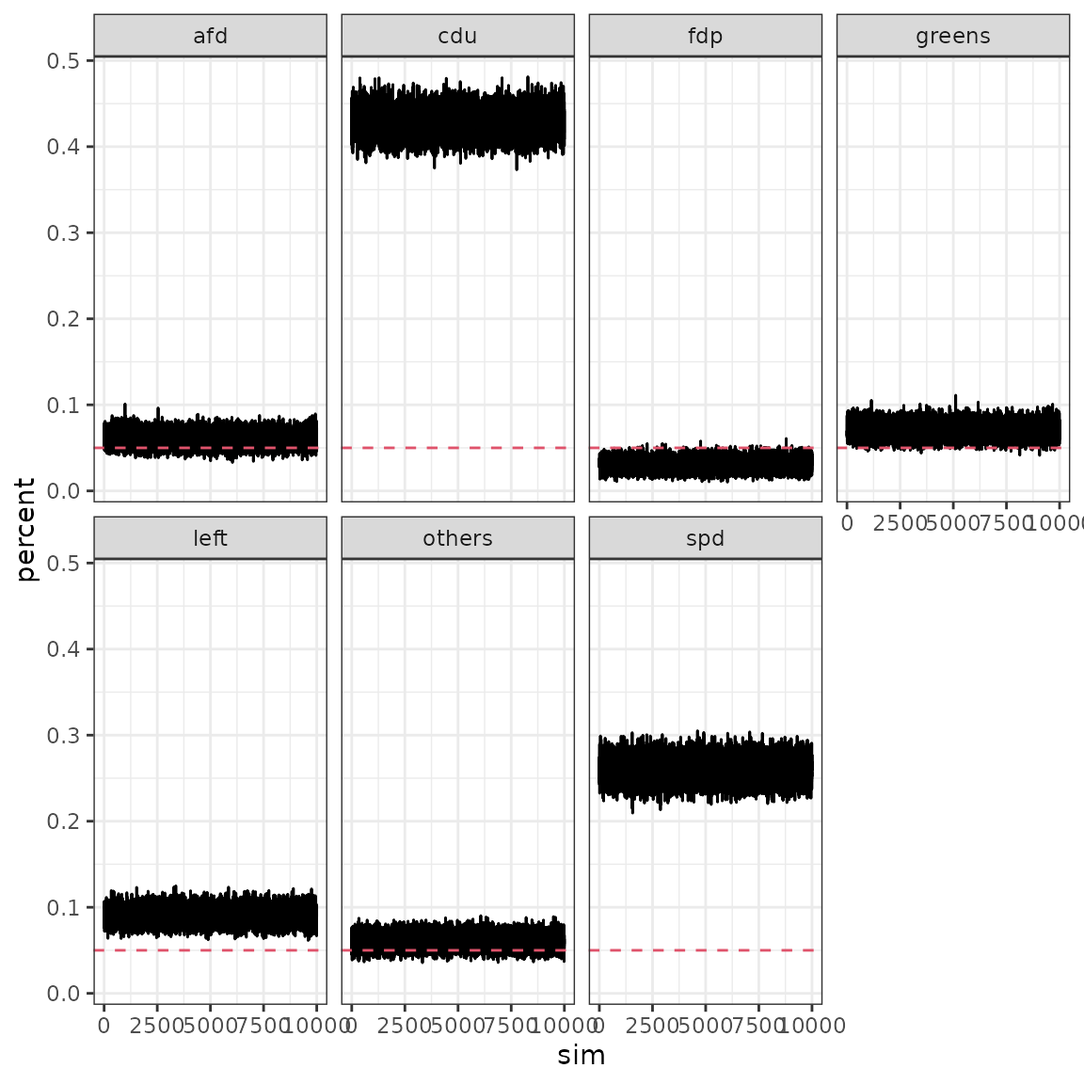
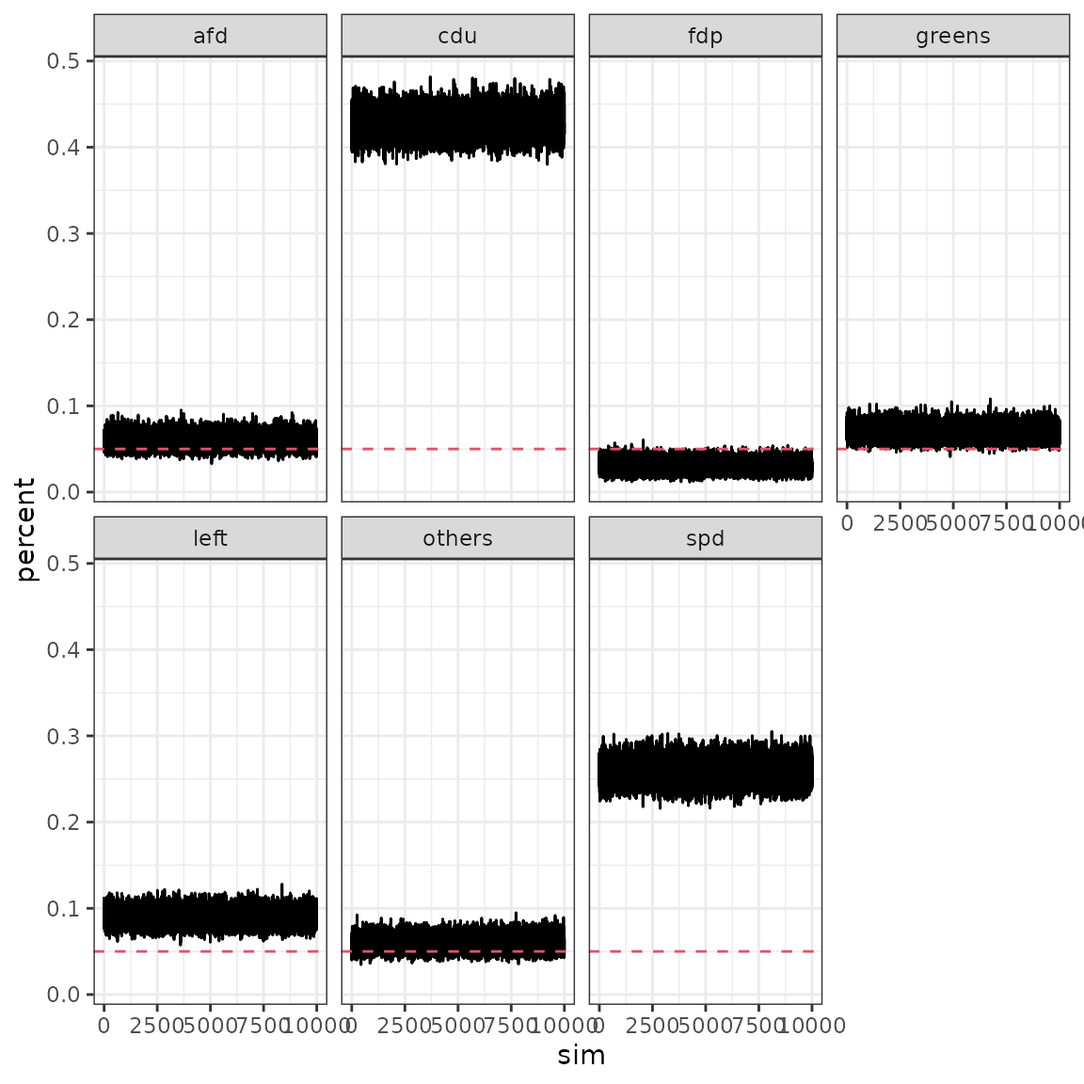
Deploying to gh-pages from @ KOALA-LMU/coalitions@8761fc0c4aca063664afe9be1960df3e53cd40d1 🚀

diff --git a/articles/workflow.html b/articles/workflow.html
@@ -106,7 +106,7 @@
                         <h4 data-toc-skip class="author">Andreas
 Bender</h4>
             
-            <h4 data-toc-skip class="date">2026-09-08</h4>
+            <h4 data-toc-skip class="date">2026-10-02</h4>
       
       <small class="dont-index">Source: <a href="https://github.com/KOALA-LMU/coalitions/blob/master/vignettes/workflow.Rmd" class="external-link"><code>vignettes/workflow.Rmd</code></a></small>
       <div class="hidden name"><code>workflow.Rmd</code></div>
@@ -222,16 +222,16 @@ by drawing from the Dirichlet distribution</p>
 <pre><code><span><span class="co">## <span style="color: #949494;"># A tibble: 10 × 7</span></span></span>
 <span><span class="co">##      cdu   spd greens    fdp   left    afd others</span></span>
 <span><span class="co">##    <span style="color: #949494; font-style: italic;">&lt;dbl&gt;</span> <span style="color: #949494; font-style: italic;">&lt;dbl&gt;</span>  <span style="color: #949494; font-style: italic;">&lt;dbl&gt;</span>  <span style="color: #949494; font-style: italic;">&lt;dbl&gt;</span>  <span style="color: #949494; font-style: italic;">&lt;dbl&gt;</span>  <span style="color: #949494; font-style: italic;">&lt;dbl&gt;</span>  <span style="color: #949494; font-style: italic;">&lt;dbl&gt;</span></span></span>
-<span><span class="co">## <span style="color: #BCBCBC;"> 1</span> 0.414 0.252 0.079<span style="text-decoration: underline;">3</span> 0.032<span style="text-decoration: underline;">3</span> 0.092<span style="text-decoration: underline;">6</span> 0.056<span style="text-decoration: underline;">9</span> 0.073<span style="text-decoration: underline;">5</span></span></span>
-<span><span class="co">## <span style="color: #BCBCBC;"> 2</span> 0.416 0.249 0.095<span style="text-decoration: underline;">4</span> 0.031<span style="text-decoration: underline;">8</span> 0.091<span style="text-decoration: underline;">9</span> 0.044<span style="text-decoration: underline;">8</span> 0.071<span style="text-decoration: underline;">5</span></span></span>
-<span><span class="co">## <span style="color: #BCBCBC;"> 3</span> 0.425 0.265 0.078<span style="text-decoration: underline;">0</span> 0.027<span style="text-decoration: underline;">7</span> 0.086<span style="text-decoration: underline;">9</span> 0.051<span style="text-decoration: underline;">1</span> 0.065<span style="text-decoration: underline;">6</span></span></span>
-<span><span class="co">## <span style="color: #BCBCBC;"> 4</span> 0.428 0.251 0.081<span style="text-decoration: underline;">4</span> 0.035<span style="text-decoration: underline;">5</span> 0.088<span style="text-decoration: underline;">6</span> 0.055<span style="text-decoration: underline;">8</span> 0.059<span style="text-decoration: underline;">7</span></span></span>
-<span><span class="co">## <span style="color: #BCBCBC;"> 5</span> 0.420 0.243 0.092<span style="text-decoration: underline;">8</span> 0.032<span style="text-decoration: underline;">0</span> 0.096<span style="text-decoration: underline;">4</span> 0.047<span style="text-decoration: underline;">6</span> 0.068<span style="text-decoration: underline;">7</span></span></span>
-<span><span class="co">## <span style="color: #BCBCBC;"> 6</span> 0.425 0.247 0.092<span style="text-decoration: underline;">6</span> 0.033<span style="text-decoration: underline;">5</span> 0.087<span style="text-decoration: underline;">2</span> 0.046<span style="text-decoration: underline;">5</span> 0.068<span style="text-decoration: underline;">4</span></span></span>
-<span><span class="co">## <span style="color: #BCBCBC;"> 7</span> 0.420 0.241 0.091<span style="text-decoration: underline;">1</span> 0.025<span style="text-decoration: underline;">5</span> 0.090<span style="text-decoration: underline;">1</span> 0.056<span style="text-decoration: underline;">1</span> 0.076<span style="text-decoration: underline;">1</span></span></span>
-<span><span class="co">## <span style="color: #BCBCBC;"> 8</span> 0.427 0.251 0.084<span style="text-decoration: underline;">6</span> 0.033<span style="text-decoration: underline;">1</span> 0.090<span style="text-decoration: underline;">4</span> 0.049<span style="text-decoration: underline;">9</span> 0.064<span style="text-decoration: underline;">8</span></span></span>
-<span><span class="co">## <span style="color: #BCBCBC;"> 9</span> 0.403 0.255 0.091<span style="text-decoration: underline;">9</span> 0.027<span style="text-decoration: underline;">2</span> 0.082<span style="text-decoration: underline;">8</span> 0.058<span style="text-decoration: underline;">9</span> 0.081<span style="text-decoration: underline;">7</span></span></span>
-<span><span class="co">## <span style="color: #BCBCBC;">10</span> 0.397 0.261 0.096<span style="text-decoration: underline;">4</span> 0.030<span style="text-decoration: underline;">5</span> 0.091<span style="text-decoration: underline;">9</span> 0.057<span style="text-decoration: underline;">8</span> 0.065<span style="text-decoration: underline;">5</span></span></span></code></pre>
+<span><span class="co">## <span style="color: #BCBCBC;"> 1</span> 0.408 0.245 0.094<span style="text-decoration: underline;">0</span> 0.037<span style="text-decoration: underline;">2</span> 0.097<span style="text-decoration: underline;">8</span> 0.056<span style="text-decoration: underline;">8</span> 0.060<span style="text-decoration: underline;">4</span></span></span>
+<span><span class="co">## <span style="color: #BCBCBC;"> 2</span> 0.429 0.265 0.090<span style="text-decoration: underline;">8</span> 0.031<span style="text-decoration: underline;">1</span> 0.083<span style="text-decoration: underline;">4</span> 0.043<span style="text-decoration: underline;">4</span> 0.057<span style="text-decoration: underline;">9</span></span></span>
+<span><span class="co">## <span style="color: #BCBCBC;"> 3</span> 0.410 0.258 0.091<span style="text-decoration: underline;">3</span> 0.032<span style="text-decoration: underline;">0</span> 0.081<span style="text-decoration: underline;">8</span> 0.051<span style="text-decoration: underline;">9</span> 0.074<span style="text-decoration: underline;">8</span></span></span>
+<span><span class="co">## <span style="color: #BCBCBC;"> 4</span> 0.407 0.253 0.096<span style="text-decoration: underline;">0</span> 0.033<span style="text-decoration: underline;">4</span> 0.090<span style="text-decoration: underline;">5</span> 0.047<span style="text-decoration: underline;">7</span> 0.072<span style="text-decoration: underline;">5</span></span></span>
+<span><span class="co">## <span style="color: #BCBCBC;"> 5</span> 0.420 0.242 0.090<span style="text-decoration: underline;">1</span> 0.035<span style="text-decoration: underline;">2</span> 0.087<span style="text-decoration: underline;">2</span> 0.059<span style="text-decoration: underline;">0</span> 0.066<span style="text-decoration: underline;">4</span></span></span>
+<span><span class="co">## <span style="color: #BCBCBC;"> 6</span> 0.404 0.271 0.092<span style="text-decoration: underline;">9</span> 0.029<span style="text-decoration: underline;">8</span> 0.094<span style="text-decoration: underline;">0</span> 0.040<span style="text-decoration: underline;">2</span> 0.068<span style="text-decoration: underline;">8</span></span></span>
+<span><span class="co">## <span style="color: #BCBCBC;"> 7</span> 0.421 0.257 0.092<span style="text-decoration: underline;">5</span> 0.019<span style="text-decoration: underline;">6</span> 0.081<span style="text-decoration: underline;">5</span> 0.044<span style="text-decoration: underline;">5</span> 0.084<span style="text-decoration: underline;">4</span></span></span>
+<span><span class="co">## <span style="color: #BCBCBC;"> 8</span> 0.429 0.243 0.080<span style="text-decoration: underline;">3</span> 0.030<span style="text-decoration: underline;">9</span> 0.100  0.050<span style="text-decoration: underline;">4</span> 0.065<span style="text-decoration: underline;">8</span></span></span>
+<span><span class="co">## <span style="color: #BCBCBC;"> 9</span> 0.418 0.241 0.094<span style="text-decoration: underline;">4</span> 0.033<span style="text-decoration: underline;">8</span> 0.084<span style="text-decoration: underline;">3</span> 0.059<span style="text-decoration: underline;">4</span> 0.068<span style="text-decoration: underline;">8</span></span></span>
+<span><span class="co">## <span style="color: #BCBCBC;">10</span> 0.426 0.231 0.083<span style="text-decoration: underline;">6</span> 0.031<span style="text-decoration: underline;">8</span> 0.099<span style="text-decoration: underline;">5</span> 0.049<span style="text-decoration: underline;">2</span> 0.078<span style="text-decoration: underline;">7</span></span></span></code></pre>
 </div>
 <div class="section level2">
 <h2 id="calculate-seat-distribution">Calculate seat distribution<a class="anchor" aria-label="anchor" href="#calculate-seat-distribution"></a>
@@ -254,31 +254,31 @@ function to the <code>distrib.fun</code> argument of the
 <pre><code><span><span class="co">## <span style="color: #949494;"># A tibble: 6 × 4</span></span></span>
 <span><span class="co">##   date       survey           draws             seats            </span></span>
 <span><span class="co">##   <span style="color: #949494; font-style: italic;">&lt;date&gt;</span>     <span style="color: #949494; font-style: italic;">&lt;list&gt;</span>           <span style="color: #949494; font-style: italic;">&lt;list&gt;</span>            <span style="color: #949494; font-style: italic;">&lt;list&gt;</span>           </span></span>
-<span><span class="co">## <span style="color: #BCBCBC;">1</span> 2013-11-03 <span style="color: #949494;">&lt;tibble [7 × 3]&gt;</span> <span style="color: #949494;">&lt;tibble [10 × 7]&gt;</span> <span style="color: #949494;">&lt;tibble [46 × 3]&gt;</span></span></span>
-<span><span class="co">## <span style="color: #BCBCBC;">2</span> 2013-10-27 <span style="color: #949494;">&lt;tibble [7 × 3]&gt;</span> <span style="color: #949494;">&lt;tibble [10 × 7]&gt;</span> <span style="color: #949494;">&lt;tibble [46 × 3]&gt;</span></span></span>
-<span><span class="co">## <span style="color: #BCBCBC;">3</span> 2013-10-20 <span style="color: #949494;">&lt;tibble [7 × 3]&gt;</span> <span style="color: #949494;">&lt;tibble [10 × 7]&gt;</span> <span style="color: #949494;">&lt;tibble [46 × 3]&gt;</span></span></span>
-<span><span class="co">## <span style="color: #BCBCBC;">4</span> 2013-10-13 <span style="color: #949494;">&lt;tibble [7 × 3]&gt;</span> <span style="color: #949494;">&lt;tibble [10 × 7]&gt;</span> <span style="color: #949494;">&lt;tibble [50 × 3]&gt;</span></span></span>
-<span><span class="co">## <span style="color: #BCBCBC;">5</span> 2013-10-06 <span style="color: #949494;">&lt;tibble [7 × 3]&gt;</span> <span style="color: #949494;">&lt;tibble [10 × 7]&gt;</span> <span style="color: #949494;">&lt;tibble [50 × 3]&gt;</span></span></span>
-<span><span class="co">## <span style="color: #BCBCBC;">6</span> 2013-09-29 <span style="color: #949494;">&lt;tibble [7 × 3]&gt;</span> <span style="color: #949494;">&lt;tibble [10 × 7]&gt;</span> <span style="color: #949494;">&lt;tibble [50 × 3]&gt;</span></span></span></code></pre>
+<span><span class="co">## <span style="color: #BCBCBC;">1</span> 2013-11-03 <span style="color: #949494;">&lt;tibble [7 × 3]&gt;</span> <span style="color: #949494;">&lt;tibble [10 × 7]&gt;</span> <span style="color: #949494;">&lt;tibble [45 × 3]&gt;</span></span></span>
+<span><span class="co">## <span style="color: #BCBCBC;">2</span> 2013-10-27 <span style="color: #949494;">&lt;tibble [7 × 3]&gt;</span> <span style="color: #949494;">&lt;tibble [10 × 7]&gt;</span> <span style="color: #949494;">&lt;tibble [45 × 3]&gt;</span></span></span>
+<span><span class="co">## <span style="color: #BCBCBC;">3</span> 2013-10-20 <span style="color: #949494;">&lt;tibble [7 × 3]&gt;</span> <span style="color: #949494;">&lt;tibble [10 × 7]&gt;</span> <span style="color: #949494;">&lt;tibble [45 × 3]&gt;</span></span></span>
+<span><span class="co">## <span style="color: #BCBCBC;">4</span> 2013-10-13 <span style="color: #949494;">&lt;tibble [7 × 3]&gt;</span> <span style="color: #949494;">&lt;tibble [10 × 7]&gt;</span> <span style="color: #949494;">&lt;tibble [49 × 3]&gt;</span></span></span>
+<span><span class="co">## <span style="color: #BCBCBC;">5</span> 2013-10-06 <span style="color: #949494;">&lt;tibble [7 × 3]&gt;</span> <span style="color: #949494;">&lt;tibble [10 × 7]&gt;</span> <span style="color: #949494;">&lt;tibble [49 × 3]&gt;</span></span></span>
+<span><span class="co">## <span style="color: #BCBCBC;">6</span> 2013-09-29 <span style="color: #949494;">&lt;tibble [7 × 3]&gt;</span> <span style="color: #949494;">&lt;tibble [10 × 7]&gt;</span> <span style="color: #949494;">&lt;tibble [49 × 3]&gt;</span></span></span></code></pre>
 <div class="sourceCode" id="cb14"><pre class="downlit sourceCode r">
 <code class="sourceCode R"><span><span class="co">## sim column indicates simulated elections (rows in draws column)</span></span>
 <span><span class="va">elong</span> <span class="op"><a href="../reference/pipe.html">%&gt;%</a></span> <span class="fu"><a href="https://dplyr.tidyverse.org/reference/slice.html" class="external-link">slice</a></span><span class="op">(</span><span class="fl">1</span><span class="op">)</span> <span class="op"><a href="../reference/pipe.html">%&gt;%</a></span> <span class="fu"><a href="https://dplyr.tidyverse.org/reference/select.html" class="external-link">select</a></span><span class="op">(</span><span class="va">seats</span><span class="op">)</span> <span class="op"><a href="../reference/pipe.html">%&gt;%</a></span> <span class="fu"><a href="https://tidyr.tidyverse.org/reference/unnest.html" class="external-link">unnest</a></span><span class="op">(</span><span class="st">"seats"</span><span class="op">)</span></span></code></pre></div>
-<pre><code><span><span class="co">## <span style="color: #949494;"># A tibble: 46 × 3</span></span></span>
+<pre><code><span><span class="co">## <span style="color: #949494;"># A tibble: 45 × 3</span></span></span>
 <span><span class="co">##      sim party  seats</span></span>
 <span><span class="co">##    <span style="color: #949494; font-style: italic;">&lt;int&gt;</span> <span style="color: #949494; font-style: italic;">&lt;chr&gt;</span>  <span style="color: #949494; font-style: italic;">&lt;int&gt;</span></span></span>
 <span><span class="co">## <span style="color: #BCBCBC;"> 1</span>     1 cdu       38</span></span>
-<span><span class="co">## <span style="color: #BCBCBC;"> 2</span>     1 spd      277</span></span>
-<span><span class="co">## <span style="color: #BCBCBC;"> 3</span>     1 greens    53</span></span>
-<span><span class="co">## <span style="color: #BCBCBC;"> 4</span>     1 left      62</span></span>
-<span><span class="co">## <span style="color: #BCBCBC;"> 5</span>     1 afd      168</span></span>
-<span><span class="co">## <span style="color: #BCBCBC;"> 6</span>     2 cdu      292</span></span>
-<span><span class="co">## <span style="color: #BCBCBC;"> 7</span>     2 spd       67</span></span>
-<span><span class="co">## <span style="color: #BCBCBC;"> 8</span>     2 greens    64</span></span>
-<span><span class="co">## <span style="color: #BCBCBC;"> 9</span>     2 left     175</span></span>
-<span><span class="co">## <span style="color: #BCBCBC;">10</span>     3 cdu       34</span></span>
-<span><span class="co">## <span style="color: #949494;"># ℹ 36 more rows</span></span></span></code></pre>
+<span><span class="co">## <span style="color: #BCBCBC;"> 2</span>     1 spd      270</span></span>
+<span><span class="co">## <span style="color: #BCBCBC;"> 3</span>     1 greens    62</span></span>
+<span><span class="co">## <span style="color: #BCBCBC;"> 4</span>     1 left      65</span></span>
+<span><span class="co">## <span style="color: #BCBCBC;"> 5</span>     1 afd      163</span></span>
+<span><span class="co">## <span style="color: #BCBCBC;"> 6</span>     2 cdu      295</span></span>
+<span><span class="co">## <span style="color: #BCBCBC;"> 7</span>     2 spd       63</span></span>
+<span><span class="co">## <span style="color: #BCBCBC;"> 8</span>     2 greens    58</span></span>
+<span><span class="co">## <span style="color: #BCBCBC;"> 9</span>     2 left     182</span></span>
+<span><span class="co">## <span style="color: #BCBCBC;">10</span>     3 cdu       35</span></span>
+<span><span class="co">## <span style="color: #949494;"># ℹ 35 more rows</span></span></span></code></pre>
 <p>In the above example, given the latest survey, CDU/CSU would have 38
-seats in the first simulation, 292 seats in the second simulation,
+seats in the first simulation, 295 seats in the second simulation,
 etc.</p>
 </div>
 <div class="section level2">
@@ -308,12 +308,12 @@ could potentially obtain absolute majority on their own):</p>
 <pre><code><span><span class="co">## <span style="color: #949494;"># A tibble: 6 × 4</span></span></span>
 <span><span class="co">##   date       draws             seats             majorities       </span></span>
 <span><span class="co">##   <span style="color: #949494; font-style: italic;">&lt;date&gt;</span>     <span style="color: #949494; font-style: italic;">&lt;list&gt;</span>            <span style="color: #949494; font-style: italic;">&lt;list&gt;</span>            <span style="color: #949494; font-style: italic;">&lt;list&gt;</span>           </span></span>
-<span><span class="co">## <span style="color: #BCBCBC;">1</span> 2013-11-03 <span style="color: #949494;">&lt;tibble [10 × 7]&gt;</span> <span style="color: #949494;">&lt;tibble [46 × 3]&gt;</span> <span style="color: #949494;">&lt;tibble [10 × 9]&gt;</span></span></span>
-<span><span class="co">## <span style="color: #BCBCBC;">2</span> 2013-10-27 <span style="color: #949494;">&lt;tibble [10 × 7]&gt;</span> <span style="color: #949494;">&lt;tibble [46 × 3]&gt;</span> <span style="color: #949494;">&lt;tibble [10 × 9]&gt;</span></span></span>
-<span><span class="co">## <span style="color: #BCBCBC;">3</span> 2013-10-20 <span style="color: #949494;">&lt;tibble [10 × 7]&gt;</span> <span style="color: #949494;">&lt;tibble [46 × 3]&gt;</span> <span style="color: #949494;">&lt;tibble [10 × 9]&gt;</span></span></span>
-<span><span class="co">## <span style="color: #BCBCBC;">4</span> 2013-10-13 <span style="color: #949494;">&lt;tibble [10 × 7]&gt;</span> <span style="color: #949494;">&lt;tibble [50 × 3]&gt;</span> <span style="color: #949494;">&lt;tibble [10 × 9]&gt;</span></span></span>
-<span><span class="co">## <span style="color: #BCBCBC;">5</span> 2013-10-06 <span style="color: #949494;">&lt;tibble [10 × 7]&gt;</span> <span style="color: #949494;">&lt;tibble [50 × 3]&gt;</span> <span style="color: #949494;">&lt;tibble [10 × 9]&gt;</span></span></span>
-<span><span class="co">## <span style="color: #BCBCBC;">6</span> 2013-09-29 <span style="color: #949494;">&lt;tibble [10 × 7]&gt;</span> <span style="color: #949494;">&lt;tibble [50 × 3]&gt;</span> <span style="color: #949494;">&lt;tibble [10 × 9]&gt;</span></span></span></code></pre>
+<span><span class="co">## <span style="color: #BCBCBC;">1</span> 2013-11-03 <span style="color: #949494;">&lt;tibble [10 × 7]&gt;</span> <span style="color: #949494;">&lt;tibble [45 × 3]&gt;</span> <span style="color: #949494;">&lt;tibble [10 × 9]&gt;</span></span></span>
+<span><span class="co">## <span style="color: #BCBCBC;">2</span> 2013-10-27 <span style="color: #949494;">&lt;tibble [10 × 7]&gt;</span> <span style="color: #949494;">&lt;tibble [45 × 3]&gt;</span> <span style="color: #949494;">&lt;tibble [10 × 9]&gt;</span></span></span>
+<span><span class="co">## <span style="color: #BCBCBC;">3</span> 2013-10-20 <span style="color: #949494;">&lt;tibble [10 × 7]&gt;</span> <span style="color: #949494;">&lt;tibble [45 × 3]&gt;</span> <span style="color: #949494;">&lt;tibble [10 × 9]&gt;</span></span></span>
+<span><span class="co">## <span style="color: #BCBCBC;">4</span> 2013-10-13 <span style="color: #949494;">&lt;tibble [10 × 7]&gt;</span> <span style="color: #949494;">&lt;tibble [49 × 3]&gt;</span> <span style="color: #949494;">&lt;tibble [10 × 9]&gt;</span></span></span>
+<span><span class="co">## <span style="color: #BCBCBC;">5</span> 2013-10-06 <span style="color: #949494;">&lt;tibble [10 × 7]&gt;</span> <span style="color: #949494;">&lt;tibble [49 × 3]&gt;</span> <span style="color: #949494;">&lt;tibble [10 × 9]&gt;</span></span></span>
+<span><span class="co">## <span style="color: #BCBCBC;">6</span> 2013-09-29 <span style="color: #949494;">&lt;tibble [10 × 7]&gt;</span> <span style="color: #949494;">&lt;tibble [49 × 3]&gt;</span> <span style="color: #949494;">&lt;tibble [10 × 9]&gt;</span></span></span></code></pre>
 <div class="sourceCode" id="cb18"><pre class="downlit sourceCode r">
 <code class="sourceCode R"><span><span class="co"># The majorities table for each date will have 1 row per simulation</span></span>
 <span><span class="co"># and one column per coalition</span></span>
@@ -324,13 +324,13 @@ could potentially obtain absolute majority on their own):</p>
 <span><span class="co">## <span style="color: #BCBCBC;"> 1</span> FALSE FALSE   FALSE      FALSE          FALSE TRUE     TRUE      </span></span>
 <span><span class="co">## <span style="color: #BCBCBC;"> 2</span> FALSE FALSE   TRUE       TRUE           FALSE FALSE    FALSE     </span></span>
 <span><span class="co">## <span style="color: #BCBCBC;"> 3</span> FALSE FALSE   FALSE      FALSE          FALSE TRUE     TRUE      </span></span>
-<span><span class="co">## <span style="color: #BCBCBC;"> 4</span> FALSE FALSE   FALSE      FALSE          FALSE TRUE     TRUE      </span></span>
-<span><span class="co">## <span style="color: #BCBCBC;"> 5</span> FALSE FALSE   TRUE       TRUE           FALSE FALSE    FALSE     </span></span>
+<span><span class="co">## <span style="color: #BCBCBC;"> 4</span> FALSE FALSE   TRUE       TRUE           FALSE FALSE    FALSE     </span></span>
+<span><span class="co">## <span style="color: #BCBCBC;"> 5</span> FALSE FALSE   FALSE      FALSE          FALSE TRUE     TRUE      </span></span>
 <span><span class="co">## <span style="color: #BCBCBC;"> 6</span> FALSE FALSE   TRUE       TRUE           FALSE FALSE    FALSE     </span></span>
-<span><span class="co">## <span style="color: #BCBCBC;"> 7</span> FALSE FALSE   FALSE      FALSE          FALSE TRUE     TRUE      </span></span>
-<span><span class="co">## <span style="color: #BCBCBC;"> 8</span> TRUE  TRUE    TRUE       TRUE           FALSE FALSE    FALSE     </span></span>
+<span><span class="co">## <span style="color: #BCBCBC;"> 7</span> FALSE FALSE   TRUE       TRUE           FALSE FALSE    FALSE     </span></span>
+<span><span class="co">## <span style="color: #BCBCBC;"> 8</span> FALSE FALSE   FALSE      FALSE          FALSE TRUE     TRUE      </span></span>
 <span><span class="co">## <span style="color: #BCBCBC;"> 9</span> FALSE FALSE   FALSE      FALSE          FALSE TRUE     TRUE      </span></span>
-<span><span class="co">## <span style="color: #BCBCBC;">10</span> FALSE FALSE   FALSE      FALSE          FALSE TRUE     TRUE      </span></span>
+<span><span class="co">## <span style="color: #BCBCBC;">10</span> TRUE  TRUE    TRUE       TRUE           FALSE FALSE    FALSE     </span></span>
 <span><span class="co">## <span style="color: #949494;"># ℹ 2 more variables: greens_left_spd &lt;lgl&gt;, cdu_spd &lt;lgl&gt;</span></span></span></code></pre>
 </div>
 <div class="section level2">
@@ -363,12 +363,12 @@ simulation with majority for “cdu/csu” and “fdp”, see example in
 <span><span class="co">##   <span style="color: #949494; font-style: italic;">&lt;chr&gt;</span>                 <span style="color: #949494; font-style: italic;">&lt;dbl&gt;</span></span></span>
 <span><span class="co">## <span style="color: #BCBCBC;">1</span> cdu                      10</span></span>
 <span><span class="co">## <span style="color: #BCBCBC;">2</span> cdu_fdp                   0</span></span>
-<span><span class="co">## <span style="color: #BCBCBC;">3</span> cdu_greens               30</span></span>
+<span><span class="co">## <span style="color: #BCBCBC;">3</span> cdu_greens               40</span></span>
 <span><span class="co">## <span style="color: #BCBCBC;">4</span> cdu_fdp_greens            0</span></span>
 <span><span class="co">## <span style="color: #BCBCBC;">5</span> spd                       0</span></span>
-<span><span class="co">## <span style="color: #BCBCBC;">6</span> left_spd                 60</span></span>
-<span><span class="co">## <span style="color: #BCBCBC;">7</span> greens_spd               60</span></span>
-<span><span class="co">## <span style="color: #BCBCBC;">8</span> greens_left_spd          20</span></span>
+<span><span class="co">## <span style="color: #BCBCBC;">6</span> left_spd                 50</span></span>
+<span><span class="co">## <span style="color: #BCBCBC;">7</span> greens_spd               50</span></span>
+<span><span class="co">## <span style="color: #BCBCBC;">8</span> greens_left_spd          40</span></span>
 <span><span class="co">## <span style="color: #BCBCBC;">9</span> cdu_spd                  90</span></span></code></pre>
 </div>
 <div class="section level2">
@@ -381,15 +381,15 @@ simulation with majority for “cdu/csu” and “fdp”, see example in
 <pre><code><span><span class="co">## <span style="color: #949494;"># A tibble: 36 × 3</span></span></span>
 <span><span class="co">##    date       coalition       probability</span></span>
 <span><span class="co">##    <span style="color: #949494; font-style: italic;">&lt;date&gt;</span>     <span style="color: #949494; font-style: italic;">&lt;chr&gt;</span>                 <span style="color: #949494; font-style: italic;">&lt;dbl&gt;</span></span></span>
-<span><span class="co">## <span style="color: #BCBCBC;"> 1</span> 2013-11-03 cdu                       0</span></span>
+<span><span class="co">## <span style="color: #BCBCBC;"> 1</span> 2013-11-03 cdu                      10</span></span>
 <span><span class="co">## <span style="color: #BCBCBC;"> 2</span> 2013-11-03 cdu_fdp                   0</span></span>
-<span><span class="co">## <span style="color: #BCBCBC;"> 3</span> 2013-11-03 cdu_fdp_greens           60</span></span>
+<span><span class="co">## <span style="color: #BCBCBC;"> 3</span> 2013-11-03 cdu_fdp_greens           20</span></span>
 <span><span class="co">## <span style="color: #BCBCBC;"> 4</span> 2013-11-03 spd                       0</span></span>
-<span><span class="co">## <span style="color: #BCBCBC;"> 5</span> 2013-11-03 left_spd                 40</span></span>
-<span><span class="co">## <span style="color: #BCBCBC;"> 6</span> 2013-11-03 greens_left_spd          60</span></span>
-<span><span class="co">## <span style="color: #BCBCBC;"> 7</span> 2013-10-27 cdu                       0</span></span>
+<span><span class="co">## <span style="color: #BCBCBC;"> 5</span> 2013-11-03 left_spd                 70</span></span>
+<span><span class="co">## <span style="color: #BCBCBC;"> 6</span> 2013-11-03 greens_left_spd          20</span></span>
+<span><span class="co">## <span style="color: #BCBCBC;"> 7</span> 2013-10-27 cdu                      10</span></span>
 <span><span class="co">## <span style="color: #BCBCBC;"> 8</span> 2013-10-27 cdu_fdp                   0</span></span>
-<span><span class="co">## <span style="color: #BCBCBC;"> 9</span> 2013-10-27 cdu_fdp_greens           60</span></span>
+<span><span class="co">## <span style="color: #BCBCBC;"> 9</span> 2013-10-27 cdu_fdp_greens           20</span></span>
 <span><span class="co">## <span style="color: #BCBCBC;">10</span> 2013-10-27 spd                       0</span></span>
 <span><span class="co">## <span style="color: #949494;"># ℹ 26 more rows</span></span></span></code></pre>
 </div>

diff --git a/reference/scrape.html b/reference/scrape.html
@@ -149,11 +149,11 @@ respondents, and one column per party containing the percentage of votes.</p>
 <span class="r-out co"><span class="r-pr">#&gt;</span> <span style="color: #949494;"># A tibble: 5 × 12</span></span>
 <span class="r-out co"><span class="r-pr">#&gt;</span>   pollster date       start      end          cdu   spd greens   fdp  left   afd</span>
 <span class="r-out co"><span class="r-pr">#&gt;</span>   <span style="color: #949494; font-style: italic;">&lt;chr&gt;</span>    <span style="color: #949494; font-style: italic;">&lt;date&gt;</span>     <span style="color: #949494; font-style: italic;">&lt;date&gt;</span>     <span style="color: #949494; font-style: italic;">&lt;date&gt;</span>     <span style="color: #949494; font-style: italic;">&lt;dbl&gt;</span> <span style="color: #949494; font-style: italic;">&lt;dbl&gt;</span>  <span style="color: #949494; font-style: italic;">&lt;dbl&gt;</span> <span style="color: #949494; font-style: italic;">&lt;dbl&gt;</span> <span style="color: #949494; font-style: italic;">&lt;dbl&gt;</span> <span style="color: #949494; font-style: italic;">&lt;dbl&gt;</span></span>
-<span class="r-out co"><span class="r-pr">#&gt;</span> <span style="color: #BCBCBC;">1</span> insa     2026-04-22 2026-04-22 2026-04-22    25    25     12     4     7    20</span>
-<span class="r-out co"><span class="r-pr">#&gt;</span> <span style="color: #BCBCBC;">2</span> allensb… 2026-02-25 2026-02-25 2026-02-25    27    26     10     3     7    21</span>
-<span class="r-out co"><span class="r-pr">#&gt;</span> <span style="color: #BCBCBC;">3</span> infrate… 2025-11-19 2025-11-19 2025-11-19    26    26     12     3     6    20</span>
-<span class="r-out co"><span class="r-pr">#&gt;</span> <span style="color: #BCBCBC;">4</span> insa     2025-02-19 2025-02-19 2025-02-19    30    25     10     5     5    16</span>
-<span class="r-out co"><span class="r-pr">#&gt;</span> <span style="color: #BCBCBC;">5</span> allensb… 2024-12-05 2024-12-05 2024-12-05    33    27     10     4    <span style="color: #BB0000;">NA</span>    16</span>
+<span class="r-out co"><span class="r-pr">#&gt;</span> <span style="color: #BCBCBC;">1</span> insa     2026-09-11 2026-09-11 2026-09-11    22    26     15     5     6    21</span>
+<span class="r-out co"><span class="r-pr">#&gt;</span> <span style="color: #BCBCBC;">2</span> insa     2026-04-22 2026-04-22 2026-04-22    25    25     12     4     7    20</span>
+<span class="r-out co"><span class="r-pr">#&gt;</span> <span style="color: #BCBCBC;">3</span> allensb… 2026-02-25 2026-02-25 2026-02-25    27    26     10     3     7    21</span>
+<span class="r-out co"><span class="r-pr">#&gt;</span> <span style="color: #BCBCBC;">4</span> infrate… 2025-11-19 2025-11-19 2025-11-19    26    26     12     3     6    20</span>
+<span class="r-out co"><span class="r-pr">#&gt;</span> <span style="color: #BCBCBC;">5</span> insa     2025-02-19 2025-02-19 2025-02-19    30    25     10     5     5    16</span>
 <span class="r-out co"><span class="r-pr">#&gt;</span> <span style="color: #949494;"># ℹ 2 more variables: others &lt;dbl&gt;, respondents &lt;dbl&gt;</span></span>
 <span class="r-in"><span><span class="co"># Hessen</span></span></span>
 <span class="r-in"><span><span class="fu">scrape_ltw</span><span class="op">(</span><span class="st">"https://www.wahlrecht.de/umfragen/landtage/hessen.htm"</span>, ind_row_remove<span class="op">=</span><span class="op">-</span><span class="fu"><a href="https://rdrr.io/r/base/c.html" class="external-link">c</a></span><span class="op">(</span><span class="fl">1</span><span class="op">)</span><span class="op">)</span> <span class="op"><a href="pipe.html">%&gt;%</a></span></span></span>

diff --git a/reference/get_surveys.html b/reference/get_surveys.html
@@ -155,13 +155,13 @@ columns:</p><dl><dt>pollster</dt>
 <span class="r-out co"><span class="r-pr">#&gt;</span> <span style="color: #949494;"># A tibble: 7 × 2</span></span>
 <span class="r-out co"><span class="r-pr">#&gt;</span>   pollster   surveys           </span>
 <span class="r-out co"><span class="r-pr">#&gt;</span>   <span style="color: #949494; font-style: italic;">&lt;chr&gt;</span>      <span style="color: #949494; font-style: italic;">&lt;list&gt;</span>            </span>
-<span class="r-out co"><span class="r-pr">#&gt;</span> <span style="color: #BCBCBC;">1</span> allensbach <span style="color: #949494;">&lt;tibble [111 × 5]&gt;</span></span>
-<span class="r-out co"><span class="r-pr">#&gt;</span> <span style="color: #BCBCBC;">2</span> emnid      <span style="color: #949494;">&lt;tibble [551 × 5]&gt;</span></span>
-<span class="r-out co"><span class="r-pr">#&gt;</span> <span style="color: #BCBCBC;">3</span> forsa      <span style="color: #949494;">&lt;tibble [667 × 5]&gt;</span></span>
-<span class="r-out co"><span class="r-pr">#&gt;</span> <span style="color: #BCBCBC;">4</span> fgw        <span style="color: #949494;">&lt;tibble [172 × 5]&gt;</span></span>
-<span class="r-out co"><span class="r-pr">#&gt;</span> <span style="color: #BCBCBC;">5</span> gms        <span style="color: #949494;">&lt;tibble [72 × 5]&gt;</span> </span>
-<span class="r-out co"><span class="r-pr">#&gt;</span> <span style="color: #BCBCBC;">6</span> infratest  <span style="color: #949494;">&lt;tibble [285 × 5]&gt;</span></span>
-<span class="r-out co"><span class="r-pr">#&gt;</span> <span style="color: #BCBCBC;">7</span> insa       <span style="color: #949494;">&lt;tibble [512 × 5]&gt;</span></span>
+<span class="r-out co"><span class="r-pr">#&gt;</span> <span style="color: #BCBCBC;">1</span> allensbach <span style="color: #949494;">&lt;tibble [112 × 5]&gt;</span></span>
+<span class="r-out co"><span class="r-pr">#&gt;</span> <span style="color: #BCBCBC;">2</span> emnid      <span style="color: #949494;">&lt;tibble [552 × 5]&gt;</span></span>
+<span class="r-out co"><span class="r-pr">#&gt;</span> <span style="color: #BCBCBC;">3</span> forsa      <span style="color: #949494;">&lt;tibble [670 × 5]&gt;</span></span>
+<span class="r-out co"><span class="r-pr">#&gt;</span> <span style="color: #BCBCBC;">4</span> fgw        <span style="color: #949494;">&lt;tibble [173 × 5]&gt;</span></span>
+<span class="r-out co"><span class="r-pr">#&gt;</span> <span style="color: #BCBCBC;">5</span> gms        <span style="color: #949494;">&lt;tibble [73 × 5]&gt;</span> </span>
+<span class="r-out co"><span class="r-pr">#&gt;</span> <span style="color: #BCBCBC;">6</span> infratest  <span style="color: #949494;">&lt;tibble [286 × 5]&gt;</span></span>
+<span class="r-out co"><span class="r-pr">#&gt;</span> <span style="color: #BCBCBC;">7</span> insa       <span style="color: #949494;">&lt;tibble [163 × 5]&gt;</span></span>
 <span class="r-in"><span><span class="co"># }</span></span></span>
 <span class="r-in"><span><span class="kw"><a href="https://rdrr.io/r/base/library.html" class="external-link">library</a></span><span class="op">(</span><span class="va"><a href="https://koala-lmu.github.io/coalitions/">coalitions</a></span><span class="op">)</span></span></span>
 <span class="r-in"><span><span class="co">### Scrape the newest poll for the German federal election</span></span></span>

diff --git a/reference/get_seats.html b/reference/get_seats.html
@@ -152,16 +152,16 @@ explicitly are subsumed.</p></dd>
 <span class="r-out co"><span class="r-pr">#&gt;</span> <span style="color: #949494;"># A tibble: 600 × 3</span></span>
 <span class="r-out co"><span class="r-pr">#&gt;</span>      sim party  seats</span>
 <span class="r-out co"><span class="r-pr">#&gt;</span>    <span style="color: #949494; font-style: italic;">&lt;int&gt;</span> <span style="color: #949494; font-style: italic;">&lt;chr&gt;</span>  <span style="color: #949494; font-style: italic;">&lt;int&gt;</span></span>
-<span class="r-out co"><span class="r-pr">#&gt;</span> <span style="color: #BCBCBC;"> 1</span>     1 cdu       56</span>
-<span class="r-out co"><span class="r-pr">#&gt;</span> <span style="color: #BCBCBC;"> 2</span>     1 spd      249</span>
-<span class="r-out co"><span class="r-pr">#&gt;</span> <span style="color: #BCBCBC;"> 3</span>     1 greens    48</span>
-<span class="r-out co"><span class="r-pr">#&gt;</span> <span style="color: #BCBCBC;"> 4</span>     1 fdp       50</span>
-<span class="r-out co"><span class="r-pr">#&gt;</span> <span style="color: #BCBCBC;"> 5</span>     1 left      55</span>
-<span class="r-out co"><span class="r-pr">#&gt;</span> <span style="color: #BCBCBC;"> 6</span>     1 afd      140</span>
-<span class="r-out co"><span class="r-pr">#&gt;</span> <span style="color: #BCBCBC;"> 7</span>     2 cdu       47</span>
-<span class="r-out co"><span class="r-pr">#&gt;</span> <span style="color: #BCBCBC;"> 8</span>     2 spd      241</span>
-<span class="r-out co"><span class="r-pr">#&gt;</span> <span style="color: #BCBCBC;"> 9</span>     2 greens    56</span>
-<span class="r-out co"><span class="r-pr">#&gt;</span> <span style="color: #BCBCBC;">10</span>     2 fdp       45</span>
+<span class="r-out co"><span class="r-pr">#&gt;</span> <span style="color: #BCBCBC;"> 1</span>     1 cdu       54</span>
+<span class="r-out co"><span class="r-pr">#&gt;</span> <span style="color: #BCBCBC;"> 2</span>     1 spd      232</span>
+<span class="r-out co"><span class="r-pr">#&gt;</span> <span style="color: #BCBCBC;"> 3</span>     1 greens    53</span>
+<span class="r-out co"><span class="r-pr">#&gt;</span> <span style="color: #BCBCBC;"> 4</span>     1 fdp       44</span>
+<span class="r-out co"><span class="r-pr">#&gt;</span> <span style="color: #BCBCBC;"> 5</span>     1 left      63</span>
+<span class="r-out co"><span class="r-pr">#&gt;</span> <span style="color: #BCBCBC;"> 6</span>     1 afd      152</span>
+<span class="r-out co"><span class="r-pr">#&gt;</span> <span style="color: #BCBCBC;"> 7</span>     2 cdu       53</span>
+<span class="r-out co"><span class="r-pr">#&gt;</span> <span style="color: #BCBCBC;"> 8</span>     2 spd      227</span>
+<span class="r-out co"><span class="r-pr">#&gt;</span> <span style="color: #BCBCBC;"> 9</span>     2 greens    59</span>
+<span class="r-out co"><span class="r-pr">#&gt;</span> <span style="color: #BCBCBC;">10</span>     2 fdp       50</span>
 <span class="r-out co"><span class="r-pr">#&gt;</span> <span style="color: #949494;"># ℹ 590 more rows</span></span>
 <span class="r-out co"><span class="r-pr">#&gt;</span> </span>
 </code></pre></div>

diff --git a/articles/diagnostic.html b/articles/diagnostic.html
@@ -106,7 +106,7 @@
                         <h4 data-toc-skip class="author">Andreas
 Bender</h4>
             
-            <h4 data-toc-skip class="date">2026-09-08</h4>
+            <h4 data-toc-skip class="date">2026-10-02</h4>
       
       <small class="dont-index">Source: <a href="https://github.com/KOALA-LMU/coalitions/blob/master/vignettes/diagnostic.Rmd" class="external-link"><code>vignettes/diagnostic.Rmd</code></a></small>
       <div class="hidden name"><code>diagnostic.Rmd</code></div>
@@ -164,12 +164,12 @@ Bender</h4>
 <pre><code><span><span class="co">## <span style="color: #949494;"># A tibble: 7 × 2</span></span></span>
 <span><span class="co">##   party  entryprob</span></span>
 <span><span class="co">##   <span style="color: #949494; font-style: italic;">&lt;chr&gt;</span>      <span style="color: #949494; font-style: italic;">&lt;dbl&gt;</span></span></span>
-<span><span class="co">## <span style="color: #BCBCBC;">1</span> afd       0.892 </span></span>
+<span><span class="co">## <span style="color: #BCBCBC;">1</span> afd       0.895 </span></span>
 <span><span class="co">## <span style="color: #BCBCBC;">2</span> cdu       1     </span></span>
-<span><span class="co">## <span style="color: #BCBCBC;">3</span> fdp       0.004<span style="text-decoration: underline;">2</span></span></span>
-<span><span class="co">## <span style="color: #BCBCBC;">4</span> greens    0.994 </span></span>
+<span><span class="co">## <span style="color: #BCBCBC;">3</span> fdp       0.004<span style="text-decoration: underline;">5</span></span></span>
+<span><span class="co">## <span style="color: #BCBCBC;">4</span> greens    0.995 </span></span>
 <span><span class="co">## <span style="color: #BCBCBC;">5</span> left      1     </span></span>
-<span><span class="co">## <span style="color: #BCBCBC;">6</span> others    0.892 </span></span>
+<span><span class="co">## <span style="color: #BCBCBC;">6</span> others    0.888 </span></span>
 <span><span class="co">## <span style="color: #BCBCBC;">7</span> spd       1</span></span></code></pre>
   </div>
 

diff --git a/reference/get_entryprobability.html b/reference/get_entryprobability.html
@@ -118,7 +118,7 @@ to enter the parliament. Any party called "ssw" will be exempt from the hurdle.<
 <span class="r-in"><span><span class="va">surveys</span><span class="op">$</span><span class="va">entryProbs</span></span></span>
 <span class="r-out co"><span class="r-pr">#&gt;</span> [[1]]</span>
 <span class="r-out co"><span class="r-pr">#&gt;</span>    cdu    spd greens    fdp   left    afd others </span>
-<span class="r-out co"><span class="r-pr">#&gt;</span>   1.00   1.00   1.00   1.00   1.00   1.00   0.53 </span>
+<span class="r-out co"><span class="r-pr">#&gt;</span>   1.00   1.00   1.00   1.00   1.00   1.00   0.42 </span>
 <span class="r-out co"><span class="r-pr">#&gt;</span> </span>
 </code></pre></div>
     </div>

diff --git a/articles/pooling.html b/articles/pooling.html
@@ -106,7 +106,7 @@
                         <h4 data-toc-skip class="author">Alexander
 Bauer</h4>
             
-            <h4 data-toc-skip class="date">2026-09-08</h4>
+            <h4 data-toc-skip class="date">2026-10-02</h4>
       
       <small class="dont-index">Source: <a href="https://github.com/KOALA-LMU/coalitions/blob/master/vignettes/pooling.Rmd" class="external-link"><code>vignettes/pooling.Rmd</code></a></small>
       <div class="hidden name"><code>pooling.Rmd</code></div>
